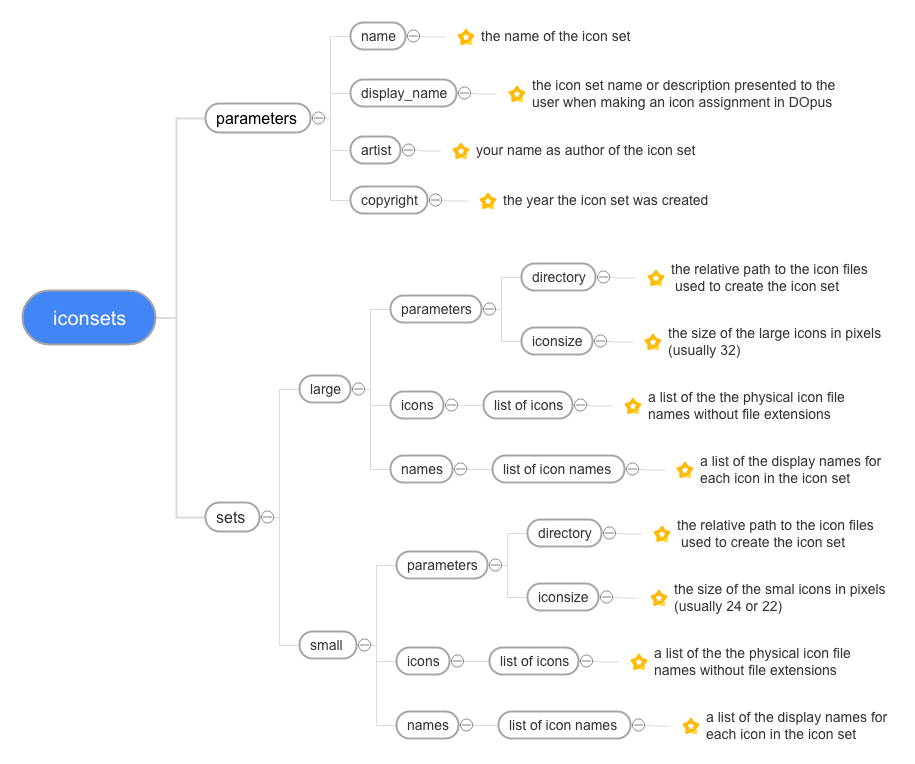
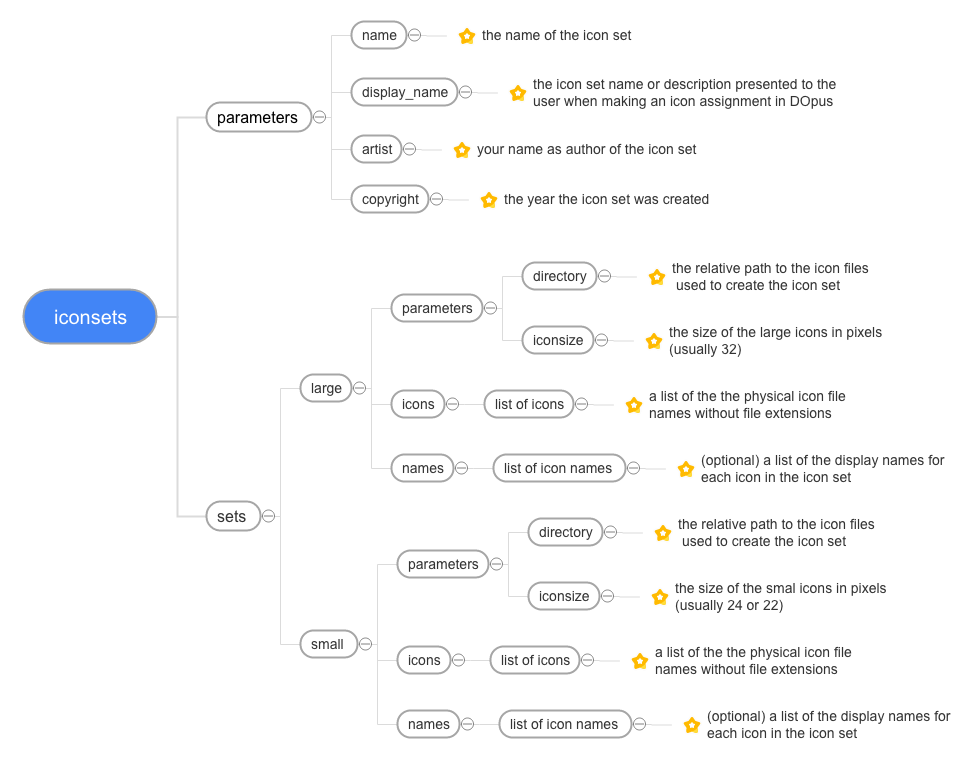
Updated docs
Updated README and resources

diff --git a/README.md b/README.md
@@ -128,9 +128,14 @@ IconSetBuilder.cmd -h
 
 - Displays the usage information for the app
 
-## Default Icon Names
+## Icon Names
 
-DOpus standard icon sets use a naming convention and icon ordering that is common across all standard sets. If you wish to follow that convention, see `Default Icon Names.md` in the doc folder for details,
+Names can be assigned to individual icons in one of two ways:
+
+- **Names List (optional)**: include a list of names in the configuration file under the `names` section for each of the large and small icon sets. The `names` list length should match one-to-one with the `icons` list length. If there is a difference between the two, the script will quit with an error.
+- **Automatic Naming (default)**: if the `names` section for the large and small sets are not specified in the configuration file, the script will "auto-create" icon names derived from the icon filenames themselves by replacing underscores and dashes with spaces and then applying title-case to the individual words in the name (ex.my-icon-file.png will result in the name My Icon File.)
+
+**Consideration**: you can use whatever names you wish for your icons, but it is worthwhile to consider using the naming convention established for standard DOpus iconsets. This convention does two things: 1) it defines an ordered list of icon names that corresponding to specific DOpus commands and 2) references icons that visually correspond to the meaning of those commands. The order of the names in the list correspond to the row x col position of  icons in the iconset master image grid (icon sheet). If you wish to follow that convention, see `Default Icon Names.md` in the doc folder for details,
 
 ## Caveats
 

diff --git a/doc/Default Icon Names.md b/doc/Default Icon Names.md
@@ -1,6 +1,6 @@
 # Directory Opus Default Icon Names
 
-Following is a list of the default names assigned to a standard DOpus iconset along with the position of each icon in the icon set's master image file (icon sheet). Note that the individual icon image associated with a name is meant to somehow convey the name's meaning, If you choose to use this naming convention, you may want to choose icon images that do the same. In preparing an `IconSetBuilder` configuration file, these names will need to be inserted into the `"names" sections` of that file. See `README.md` for details.
+Following is a list of the default names assigned to a standard DOpus iconset along with the position of each icon in the icon set's master image file (icon sheet). Note that the individual icon image associated with a name is meant to somehow convey the name's meaning, If you choose to use this naming convention, you may want to choose icon images that do the same. In preparing an `IconSetBuilder` configuration file, these names will need to be inserted into the`names`section of that file. See `README.md` for details on the IconSetBuilder configuration file format.
 
 Note that there is no requirement to use this naming convention. It is simply meant as a guide to indicate how Directory Opus's default icon sets work. By following this DOPus naming convention and icon row/col placement, your own iconset can be seamlessly swapped in to match the same default icon assignments.
 
